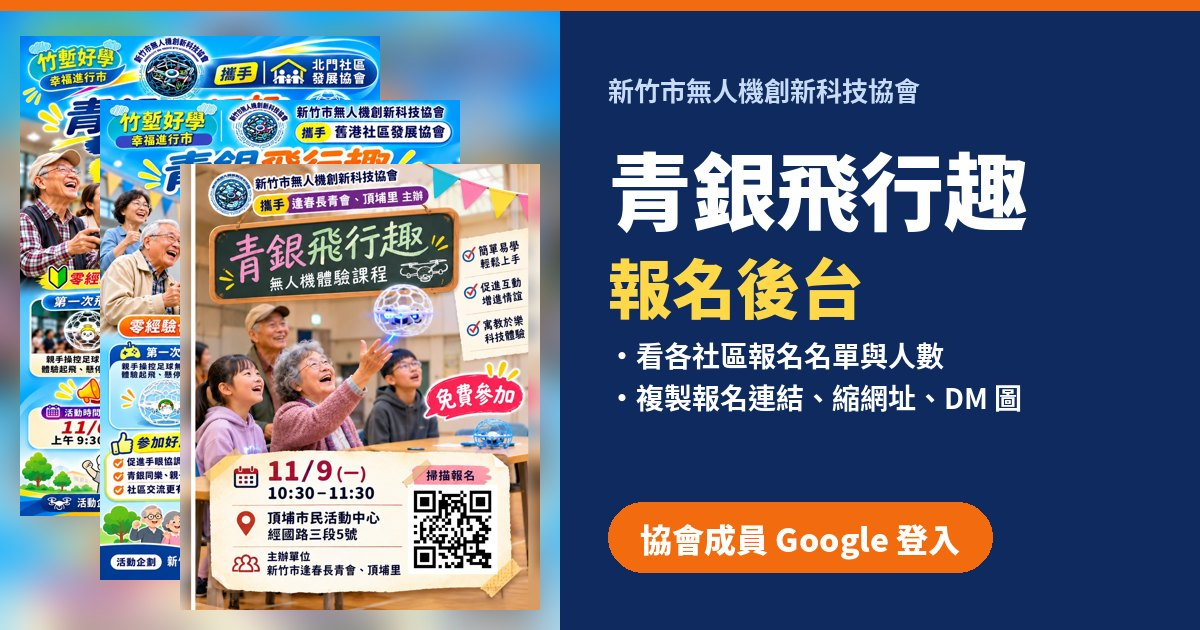
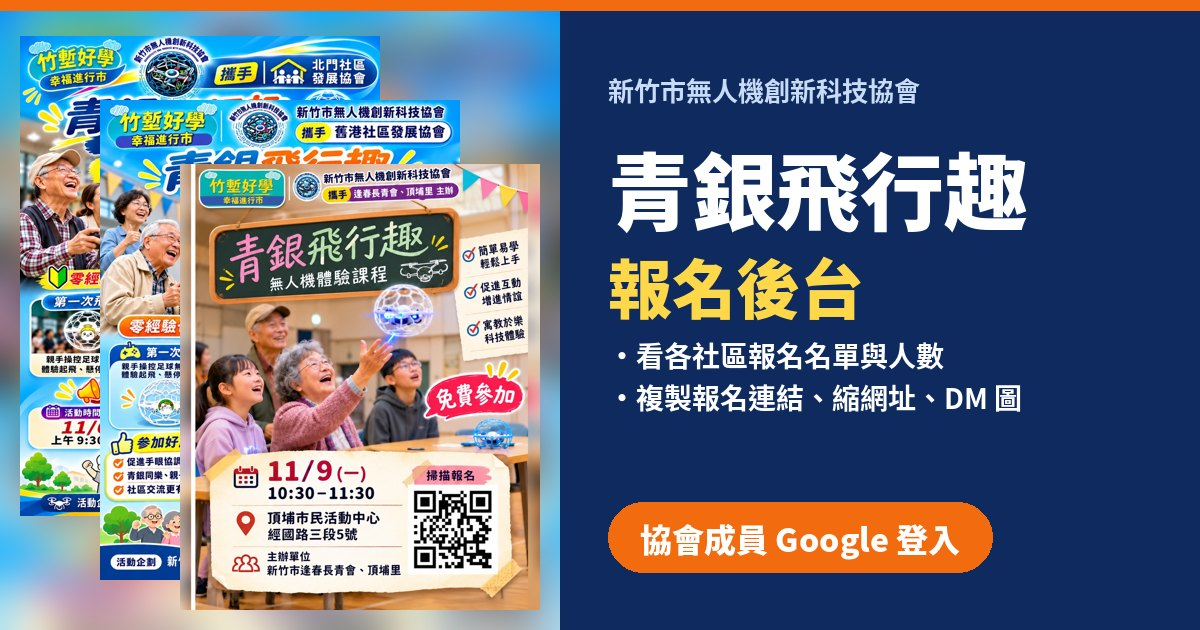
頂埔 DM 更新（加竹塹好學標誌）：海報 v=5、重產分享縮圖
Claude-Session: https://claude.ai/code/session_01Q3ebcXT11gnvsAz1b7FdnA

diff --git a/index.html b/index.html
@@ -26,7 +26,7 @@
 // 有代碼 → 一打開就先下載海報，不等其他東西
 (function(){try{var c=(new URLSearchParams(location.search).get("c")||"").trim().toLowerCase();
 if(!c){location.replace("admin.html");return;}
-if(c){var l=document.createElement("link");l.rel="preload";l.as="image";l.href="poster-"+encodeURIComponent(c)+".jpg?v=4";document.head.appendChild(l);}}catch(e){}})();
+if(c){var l=document.createElement("link");l.rel="preload";l.as="image";l.href="poster-"+encodeURIComponent(c)+".jpg?v=5";document.head.appendChild(l);}}catch(e){}})();
 </script>
 <style>
 :root{
@@ -307,7 +307,7 @@ footer a{font-family:var(--f-round);font-weight:400;font-size:24px;color:var(--r
     setTitle(c);
     document.title = (evTitle(c).replace("|", "") || "活動") + "報名｜" + c.name;
     // 海報：poster-社區代碼.jpg，有就整張顯示在最上面
-    const src = "poster-" + encodeURIComponent(c.code) + ".jpg?v=4"; // 換海報時把 v 加 1（跟上面 preload 一起改）
+    const src = "poster-" + encodeURIComponent(c.code) + ".jpg?v=5"; // 換海報時把 v 加 1（跟上面 preload 一起改）
     const img = $("#poster");
     if (img.dataset.src !== src) {
       img.dataset.src = src;
